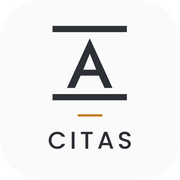
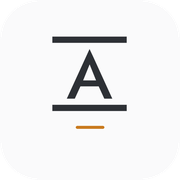
Add files via upload

diff --git a/index.html b/index.html
@@ -8,7 +8,7 @@
 <meta name="apple-mobile-web-app-status-bar-style" content="default">
 <meta name="apple-mobile-web-app-title" content="Citas">
[2 lines of base64/hex data omitted]
+<link rel="apple-touch-icon" href="apple-touch-icon.png">
[1 lines of base64/hex data omitted]
 <link rel="preconnect" href="https://fonts.googleapis.com"><link rel="preconnect" href="https://fonts.gstatic.com" crossorigin>
 <link href="https://fonts.googleapis.com/css2?family=Geist:wght@400;500;600;700&family=Geist+Mono:wght@400;500&family=Jost:wght@500;600;700&display=swap" rel="stylesheet">
